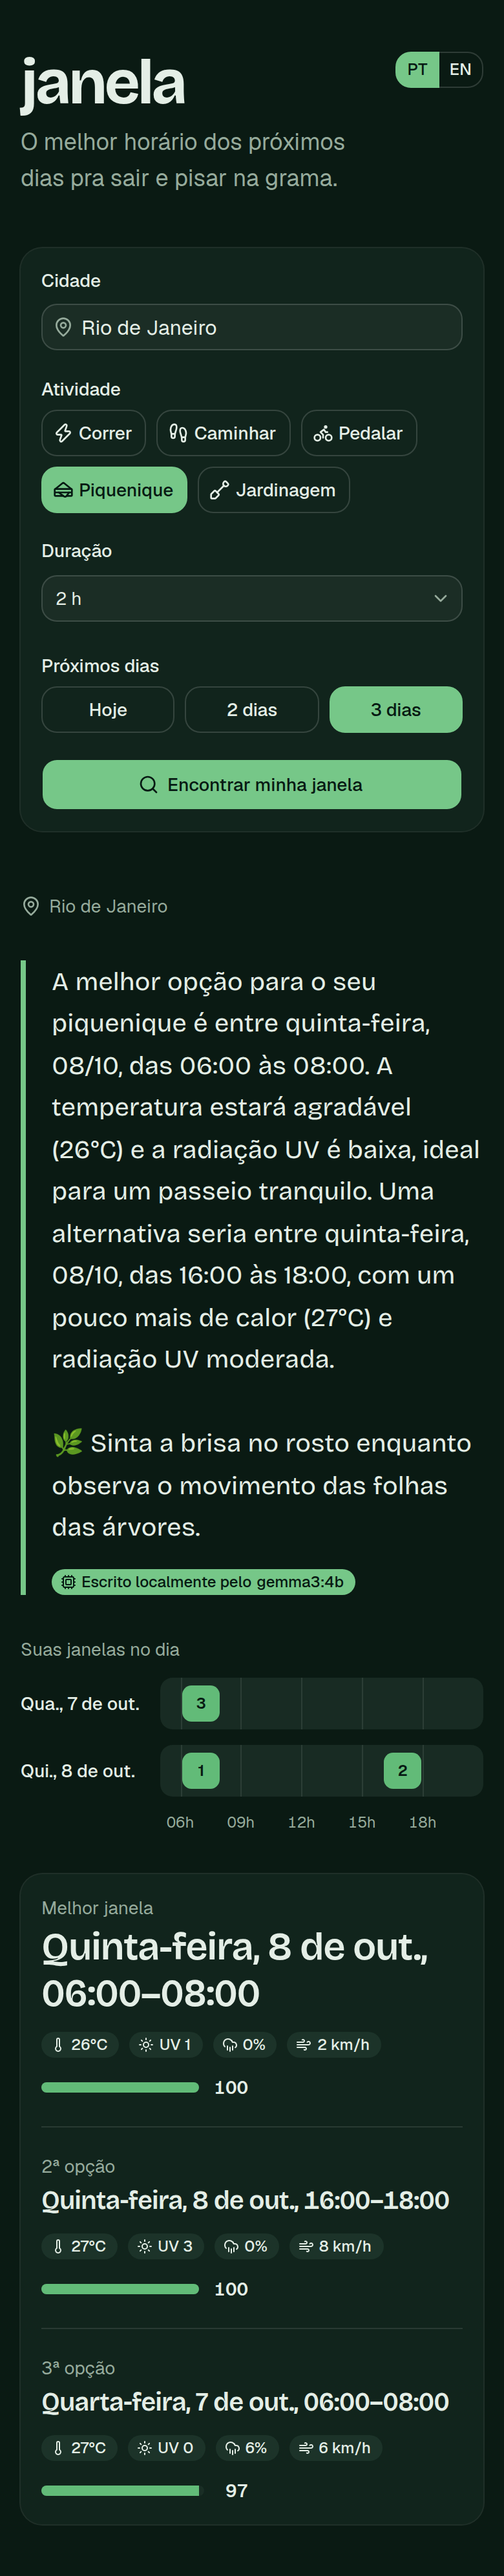
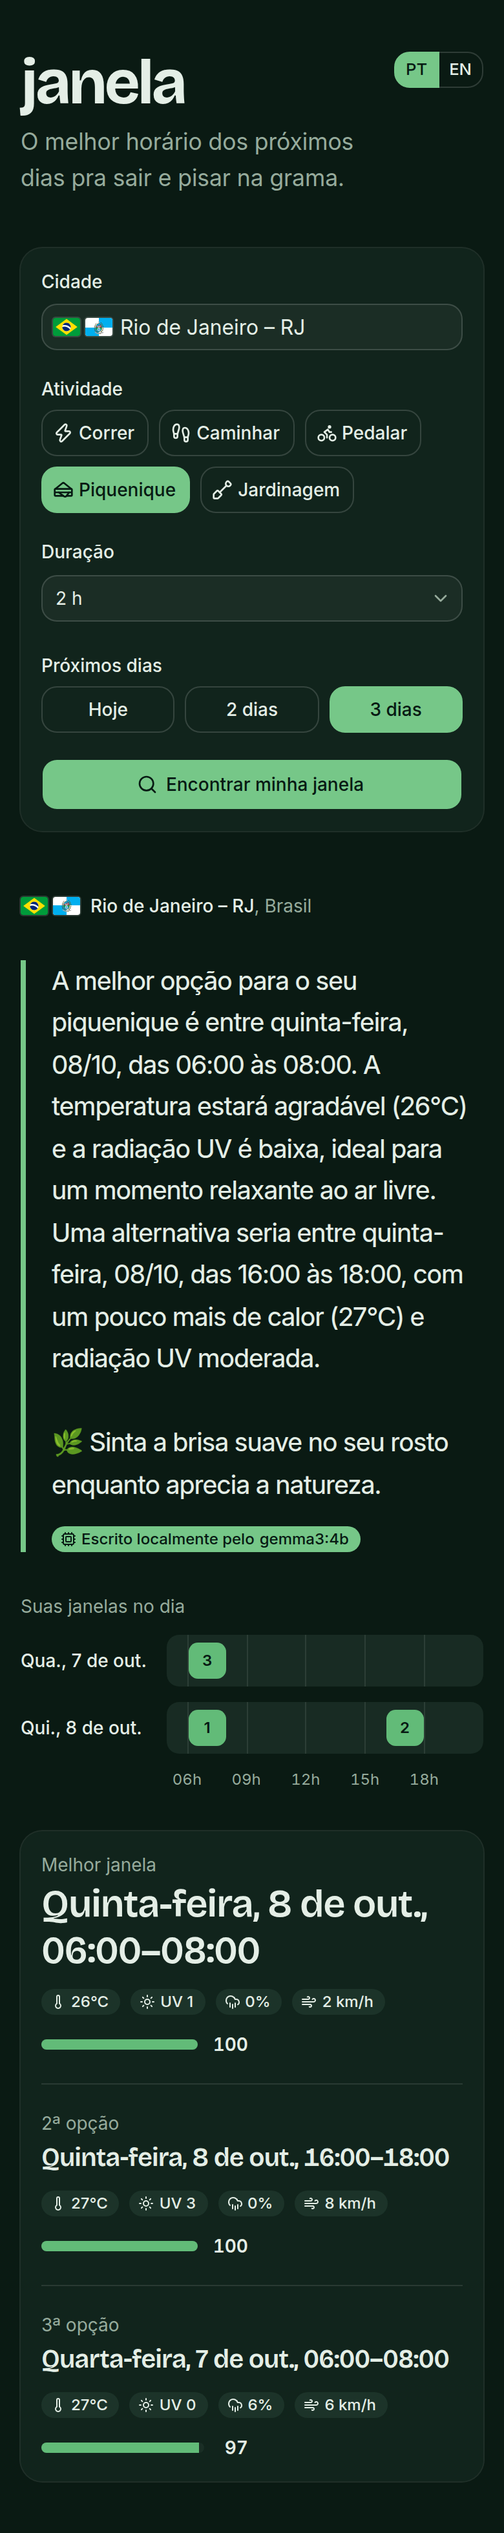
docs: document city suggestions, cityId and flag credits; refresh screenshots

diff --git a/README.md b/README.md
@@ -80,8 +80,9 @@ cd frontend && pnpm install && pnpm dev
 Open http://localhost:5173. The first answer takes about 15 seconds while Gemma writes; without Ollama
 you get the template text in a few seconds.
 
-Searches are shareable: `http://localhost:5173/?city=Recife&activity=run&duration=60&days=2&lang=en`
-runs the search as soon as the page opens.
+Type a city and pick a suggestion — "Itobi – SP", with the country and state flags — so a name shared by
+several places resolves to the right one. Searches are shareable:
+`http://localhost:5173/?city=Recife&activity=run&duration=60&days=2&lang=en` runs the search as soon as the page opens.
 
 ### Configuration
 
@@ -108,11 +109,20 @@ cd frontend && pnpm lint && pnpm build
 
 ## API
 
+`GET /api/cities?q=Itobi&lang=pt` suggests up to 6 places while you type, each with its state (`admin1`),
+country and an `id`:
+
+```json
+[{ "id": 3460543, "name": "Itobi", "admin1": "São Paulo", "country": "Brasil", "countryCode": "BR",
+   "latitude": -21.73694, "longitude": -46.975 }]
+```
+
 `GET /api/windows`
 
 | Parameter         | Required | Values                                      |
 |-------------------|----------|---------------------------------------------|
 | `city`            | yes      | City name, e.g. `Recife`                    |
+| `cityId`          | no       | An `id` from `/api/cities`; pins that exact place instead of the name's best match |
 | `activity`        | yes      | `RUN`, `WALK`, `BIKE`, `PICNIC`, `GARDENING` |
 | `durationMinutes` | yes      | 15–480 (rounded up to whole hours)          |
 | `days`            | no       | 1–3, default 1                              |
@@ -124,7 +134,8 @@ curl "http://localhost:8080/api/windows?city=Recife&activity=RUN&durationMinutes
 
 ```json
 {
-  "location": { "name": "Recife", "latitude": -8.05389, "longitude": -34.88111, "timezone": "America/Recife" },
+  "location": { "id": 3390760, "name": "Recife", "admin1": "Pernambuco", "country": "Brasil", "countryCode": "BR",
+                "latitude": -8.05389, "longitude": -34.88111, "timezone": "America/Recife" },
   "activity": "RUN",
   "windows": [
     { "start": "2026-10-07T17:00", "end": "2026-10-07T18:00", "score": 75,
@@ -167,7 +178,9 @@ docs/       Screenshots
 - Weather data by [Open-Meteo](https://open-meteo.com) (CC BY 4.0)
 - [Gemma](https://ai.google.dev/gemma) open-weight models by Google
 - [Spring AI](https://spring.io/projects/spring-ai) and [Ollama](https://ollama.com)
-- Typefaces: [Bricolage Grotesque](https://fonts.google.com/specimen/Bricolage+Grotesque) and [Geist](https://vercel.com/font)
+- Typefaces: [Inter](https://rsms.me/inter/) and [Bricolage Grotesque](https://fonts.google.com/specimen/Bricolage+Grotesque)
+- Country flags: [country-flag-icons](https://gitlab.com/catamphetamine/country-flag-icons) (MIT);
+  Brazilian state flags: [Wikimedia Commons](https://commons.wikimedia.org) (public domain)
 
 ## License
 
